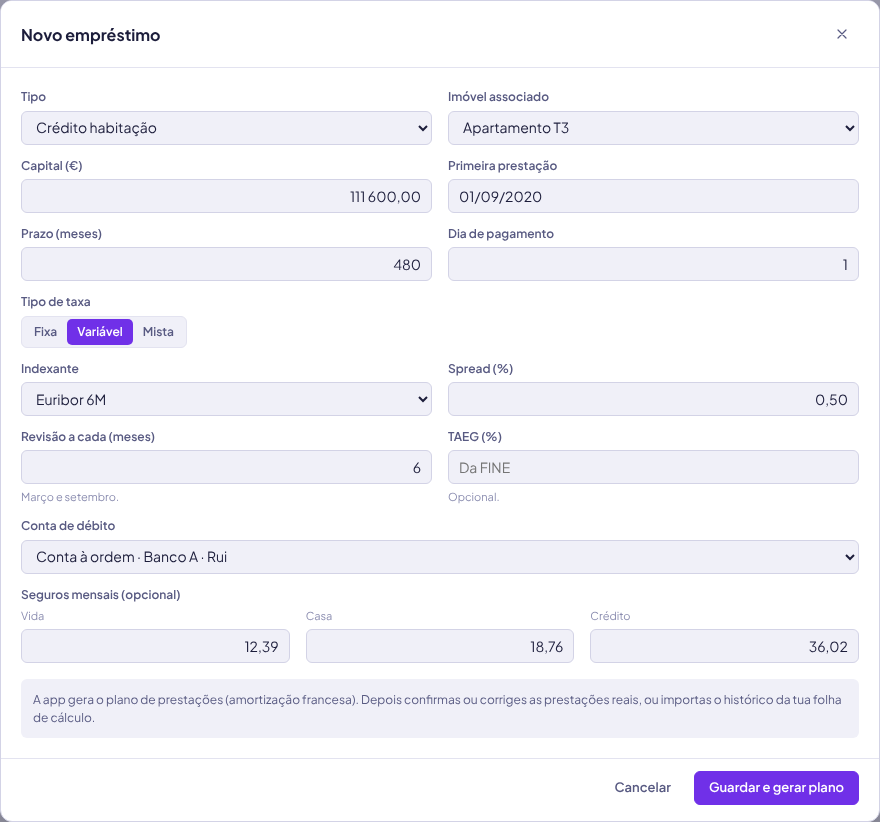
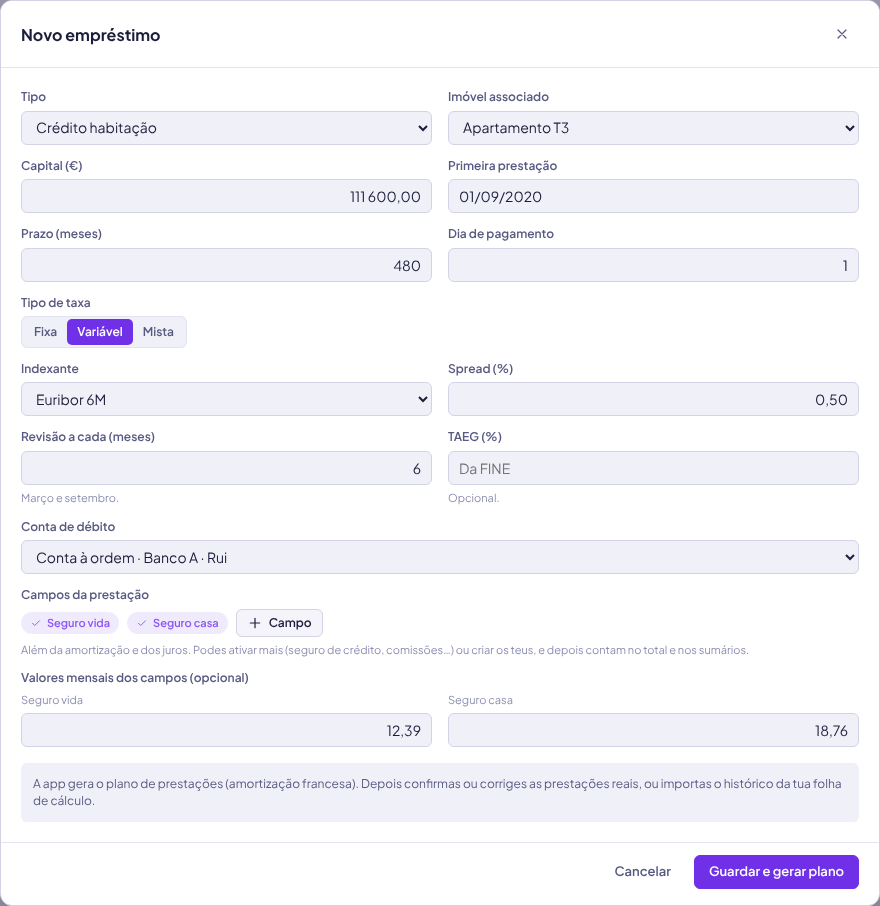
Make installment table columns configurable in the real estate mockups
Adds a Colunas menu (basic columns, optional loan fields with Seguro vida and
Seguro casa on by default, custom fields), a period summary that follows the
active fields, and a new-field dialog. Enabled fields count in totals.

Claude-Session: https://claude.ai/code/session_01NGNVUtd3kuspEovj8GqS7a

diff --git a/design/mockups/README.md b/design/mockups/README.md
@@ -14,7 +14,8 @@ that are projected at the current 2,40 % rate. Free pages use fictional demo dat
 | --- | --- |
 | `27-imobiliario-lista` | Properties, loans, net-worth effect (Pro) |
 | `28-imovel-resumo` | Equity, loan progress, capital vs interest per contract year, where the money went |
-| `29-imovel-prestacoes` | Installment table (paid / projected, bank link status) |
+| `29-imovel-prestacoes` | Installment table with configurable columns, period summary that follows the active fields |
+| `45-imovel-prestacoes-colunas` | Same page with the "Colunas e campos" menu open (basic columns, optional fields, new field) |
 | `30-imovel-eventos-e-anos` | "Pago por anos" table, rate over time, events timeline |
 | `31-imovel-obras` | Works projects with payment phases (planned vs paid date) |
 | `32-imovel-venda-e-simulador` | Sale analysis, simulator, pace to the 20-year goal, compounded inflation |
@@ -23,7 +24,7 @@ that are projected at the current 2,40 % rate. Free pages use fictional demo dat
 | `35-definicoes-plano` | Plan, usage vs limits, Free vs Pro comparison |
 | `36-definicoes-utilizadores-free` | Users and invites (invite locked on Free), role matrix |
 | `modal-37…39` | Pro dialog (owner), Pro dialog (member without permission), plan limit reached |
-| `modal-40…44` | New property, new loan, loan event (prepayment), new works project, spreadsheet import |
+| `modal-40…44`, `modal-46` | New property, new loan, loan event (prepayment), new works project, spreadsheet import, new installment field |
 | `mobile-07`, `mobile-08` | Property summary, Free preview with Pro dialog |
 
 New shared pieces (documented here until promoted to `DESIGN-SYSTEM.md`): `PRO` tag (violet gradient
@@ -38,3 +39,10 @@ NODE_PATH=$(npm root -g) node design/mockups/src/build.cjs [name-filter]
 ```
 
 `src/sheet-installments.json` holds the 73 installments extracted from the spreadsheet.
+
+## Installment fields (Prestações)
+
+Basic columns: number/date, amortization, interest, total (plus optional Em falta, Estado, Movimento).
+Optional **loan fields** (Seguro vida and Seguro casa on by default; Seguro crédito, Comissões, Imposto de
+selo and custom ones off until enabled): an enabled field adds a column and counts in the row total, the
+period summary, "Pago por ano" and the cost of the loan. Spreadsheet imports enable the fields that have values.
